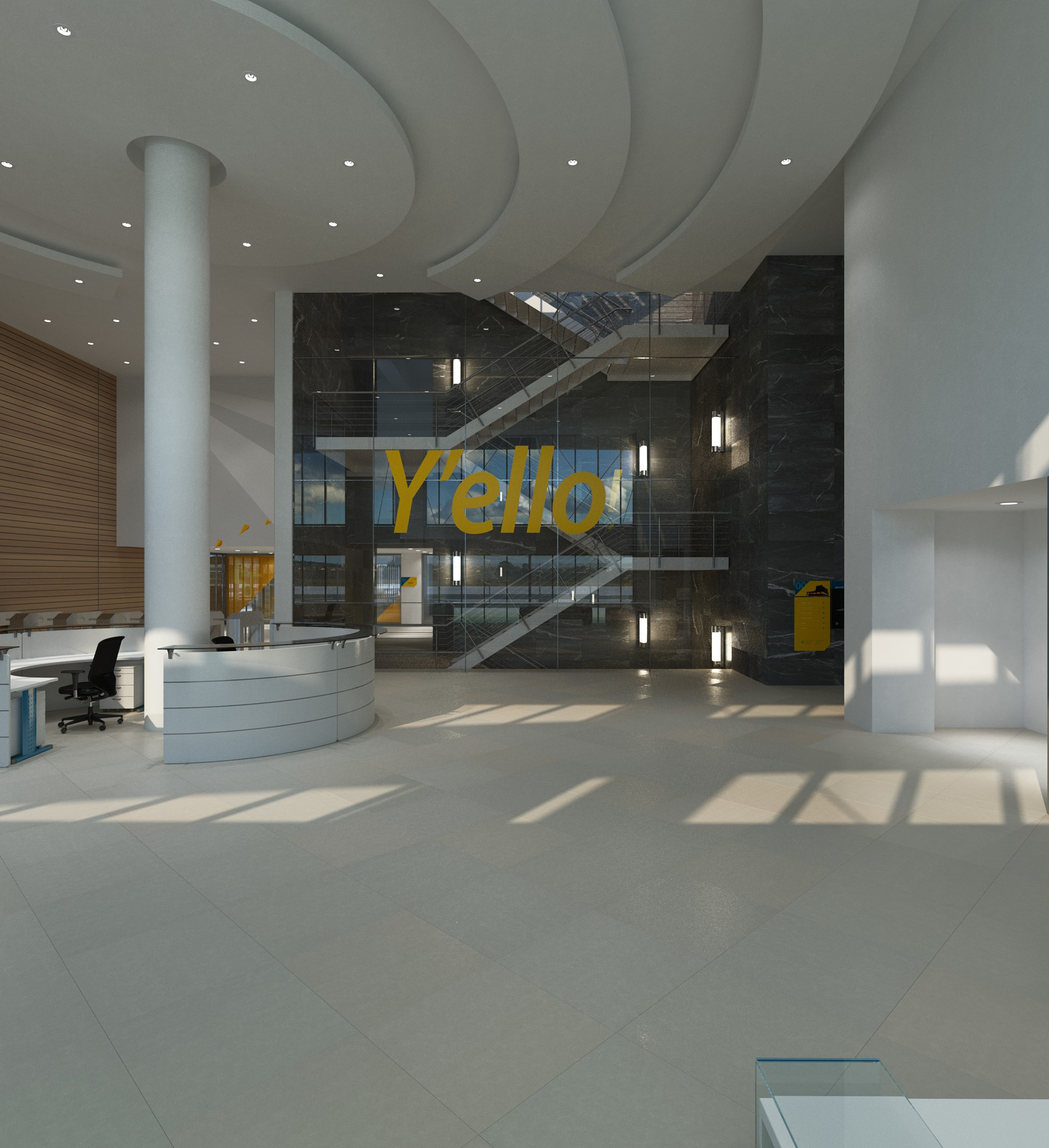
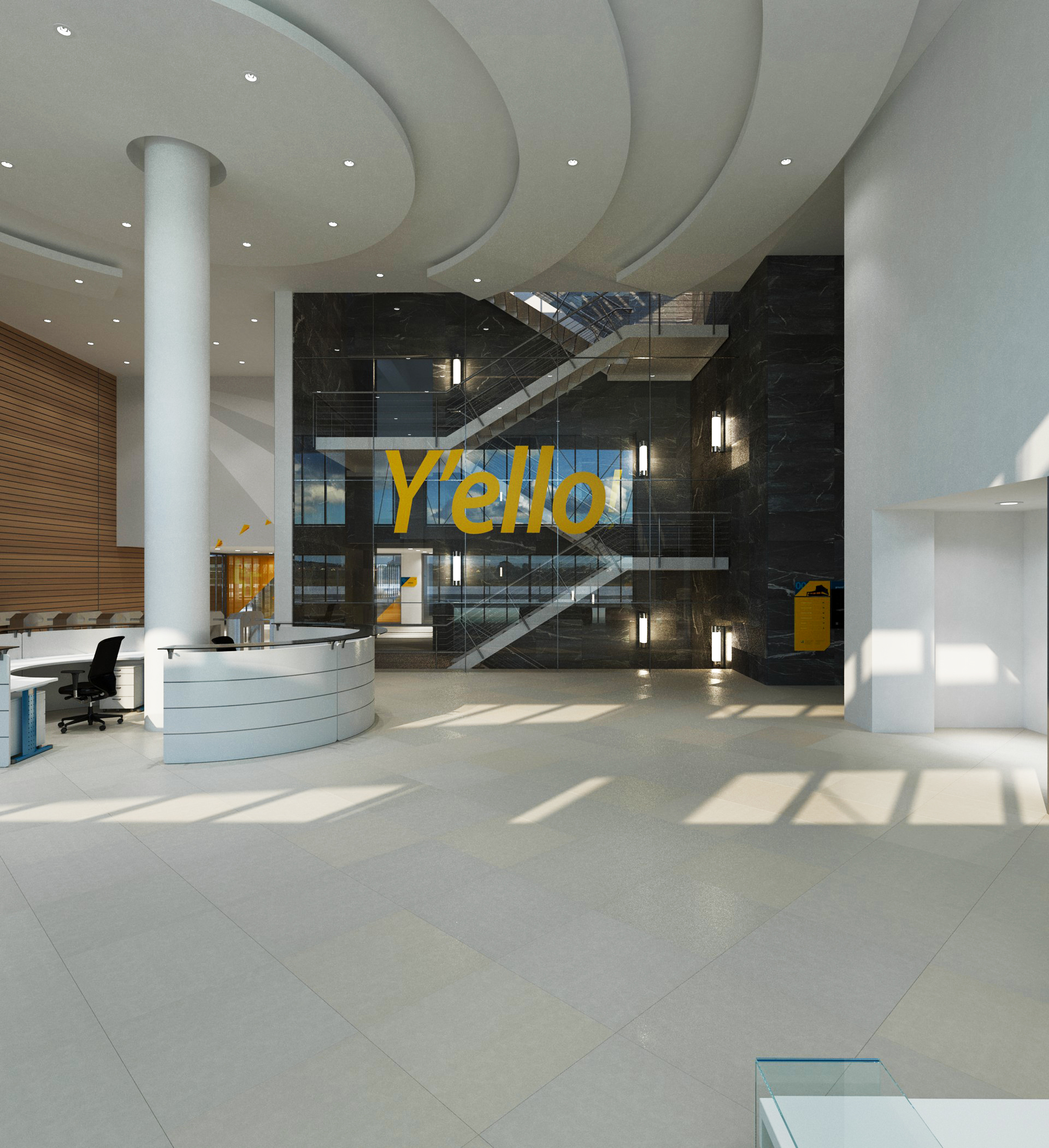
feat: archive Haustalks project and update MTN HQ images

diff --git a/js/main.js b/js/main.js
@@ -89,7 +89,6 @@ document.addEventListener('DOMContentLoaded', async () => {
     'gh-phot-awards.html': ['design', 'vfx-cgi'],
     'giffard-park.html': ['design', 'vfx-cgi'],
     'glow-in-the-dark.html': ['design', 'vfx-cgi'],
-    'haustalks.html': ['design'],
     'hfa.html': ['design', 'vfx-cgi'],
     'hfc-tvc.html': ['design', 'vfx-cgi'],
     'hola.html': ['vfx-cgi'],
@@ -7905,63 +7904,6 @@ document.addEventListener('DOMContentLoaded', async () => {
           team: 'Modelling: Winfred Atieku, Jude Abbey + Jude Nyoagbe | Texturing + Lighting + Shading: Jude Nyoagbe | Rendering: Jude Nyoagbe | Post Processing: Randy Biney',
           year: '2015',
           disciplines: '[\'3D Visualization\']'
-        }
-      },
-      {
-        id: 'haustalks',
-        title: 'Haustalks',
-        category: 'Brand Identity / Graphic Design — 2019',
-        service: 'Brand Identity & Graphic Design',
-        discipline: 'graphic',
-        imageUrl: 'assets/images/haustalks/haustalks-desktop.jpg',
-        mobilePosition: 'center',
-        mobileFit: 'contain',
-        projectUrl: 'haustalks.html',
-        desc: 'Identity and campaign plates for Haustalks, an advice service that puts a client in touch with a named building professional — a red speech-bubble monogram set into rendered scenes of steel and stone.',
-        specs: {
-          client: 'Haustalks',
-          scope: 'Brand Identity & Graphic Design',
-          team: 'RDVS Team',
-          year: '2019',
-          disciplines: ['Graphic Design']
-        }
-      },
-      {
-        id: 'haustalks-plate1',
-        title: 'Haustalks',
-        category: 'Brand Identity / Graphic Design — 2019',
-        service: 'Brand Identity & Graphic Design',
-        discipline: 'graphic',
-        imageUrl: 'assets/images/haustalks/haustalks-1.jpg',
-        mobilePosition: 'center',
-        mobileFit: 'contain',
-        projectUrl: 'haustalks.html',
-        desc: 'Identity and campaign plates for Haustalks, an advice service that puts a client in touch with a named building professional — a red speech-bubble monogram set into rendered scenes of steel and stone.',
-        specs: {
-          client: 'Haustalks',
-          scope: 'Brand Identity & Graphic Design',
-          team: 'RDVS Team',
-          year: '2019',
-          disciplines: ['Graphic Design']
-        }
-      },
-      {
-        id: 'haustalks-plate2',
-        title: 'Haustalks',
-        category: 'Brand Identity / Graphic Design — 2019',
-        service: 'Brand Identity & Graphic Design',
-        discipline: 'graphic',
-        imageUrl: 'assets/images/haustalks/haustalks-2.jpg',
-        mobilePosition: 'center',
-        mobileFit: 'contain',
-        projectUrl: 'haustalks.html',
-        desc: 'Identity and campaign plates for Haustalks, an advice service that puts a client in touch with a named building professional — a red speech-bubble monogram set into rendered scenes of steel and stone.',
-        specs: {
-          client: 'Haustalks',
-          scope: 'Brand Identity & Graphic Design',
-          team: 'RDVS Team',
-          year: '2019',
-          disciplines: ['Graphic Design']
         }
       },
       {

diff --git a/work.html b/work.html
@@ -1193,33 +1193,7 @@
         </div>
       </a>
 
-
-      <!-- Project: HAUSTALKS -->
-      <a href="haustalks.html" class="grid-card" 
-         data-title="Haustalks" 
-         data-year="2019" 
-         data-typology="Brand Identity" 
-         data-discipline="Graphic Design" 
-         data-client="Haustalks" 
-         data-location="Accra, Ghana" 
-         data-category="graphic-design brand-identity">
-        <div class="card-media-wrapper">
-          <img src="assets/images/haustalks/haustalks-desktop.jpg" alt="Haustalks structural-engineer plate — red speech-bubble monogram behind a dark steel space frame with headline and body copy in the left column" class="card-img" loading="lazy">
-        </div>
-        <div class="card-meta">
-          <div class="card-meta-main">
-            <h2 class="card-title">Haustalks</h2>
-            <span class="card-year">2019</span>
-          </div>
-          <div class="card-meta-sub">
-            <span class="card-typology">Brand Identity</span>
-            <span class="meta-sep">/</span>
-            <span class="card-category">Graphic Design</span>
-          </div>
-        </div>
-      </a>
-
-      <!-- Project: GLOW IN THE DARK -->
+<!-- Project: GLOW IN THE DARK -->
       <a href="glow-in-the-dark.html" class="grid-card" 
          data-title="Glow in the Dark" 
          data-year="2014" 

diff --git a/margin.html b/margin.html
@@ -148,8 +148,8 @@
 
     <nav class="project-nav-footer" aria-label="Project pagination">
       <span class="project-nav-item">
-        <a class="project-nav-thumb" href="haustalks.html" tabindex="-1" aria-hidden="true"><img src="assets/nav-thumbs/haustalks.jpg" width="320" height="200" alt="" loading="lazy" decoding="async"></a>
-        <a href="haustalks.html" class="project-nav-link">&larr; Previous: Haustalks</a>
+        <a class="project-nav-thumb" href="hfa.html" tabindex="-1" aria-hidden="true"><img src="assets/nav-thumbs/hfa.jpg" width="320" height="200" alt="" loading="lazy" decoding="async"></a>
+        <a href="hfa.html" class="project-nav-link">&larr; Previous: HFA</a>
       </span>
       <span class="project-nav-item">
         <a class="project-nav-thumb" href="bfa.html" tabindex="-1" aria-hidden="true"><img src="assets/nav-thumbs/bfa.jpg" width="320" height="200" alt="" loading="lazy" decoding="async"></a>

diff --git a/hfa.html b/hfa.html
@@ -184,8 +184,8 @@
         <a href="ela-b.html" class="project-nav-link">&larr; Previous: Ela B</a>
       </span>
       <span class="project-nav-item">
-        <a class="project-nav-thumb" href="haustalks.html" tabindex="-1" aria-hidden="true"><img src="assets/nav-thumbs/haustalks.jpg" width="320" height="200" alt="" loading="lazy" decoding="async"></a>
-        <a href="haustalks.html" class="project-nav-link">Next: Haustalks &rarr;</a>
+        <a class="project-nav-thumb" href="margin.html" tabindex="-1" aria-hidden="true"><img src="assets/nav-thumbs/margin.jpg" width="320" height="200" alt="" loading="lazy" decoding="async"></a>
+        <a href="margin.html" class="project-nav-link">Next: Margin &rarr;</a>
       </span>
     </nav>
     <section class="project-cta" aria-labelledby="project-cta-heading">
